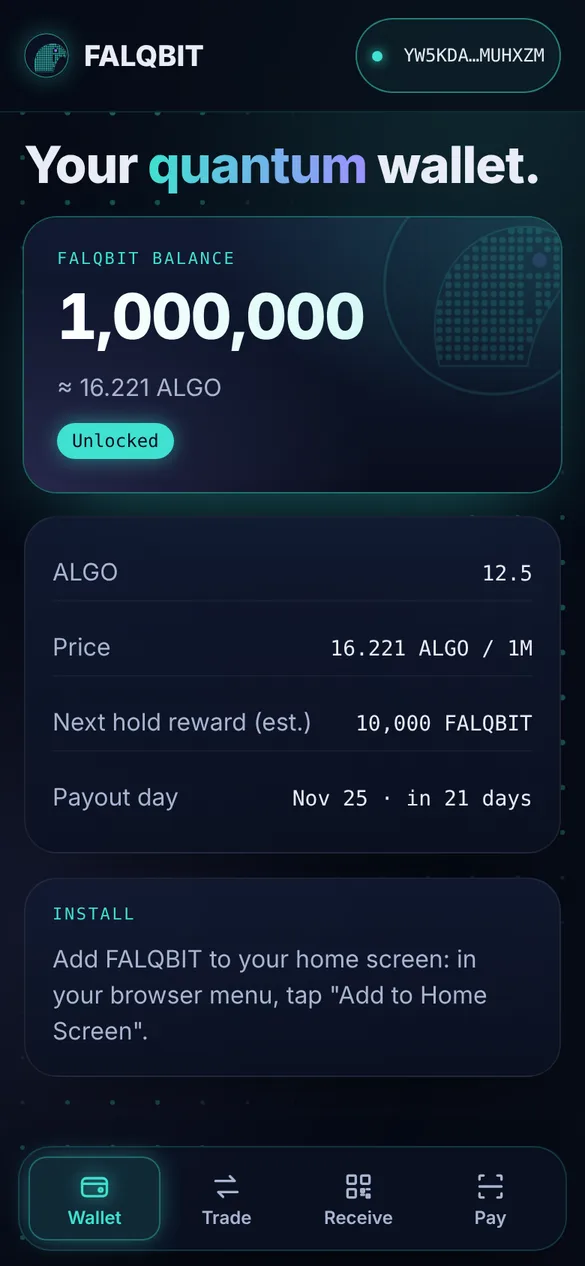
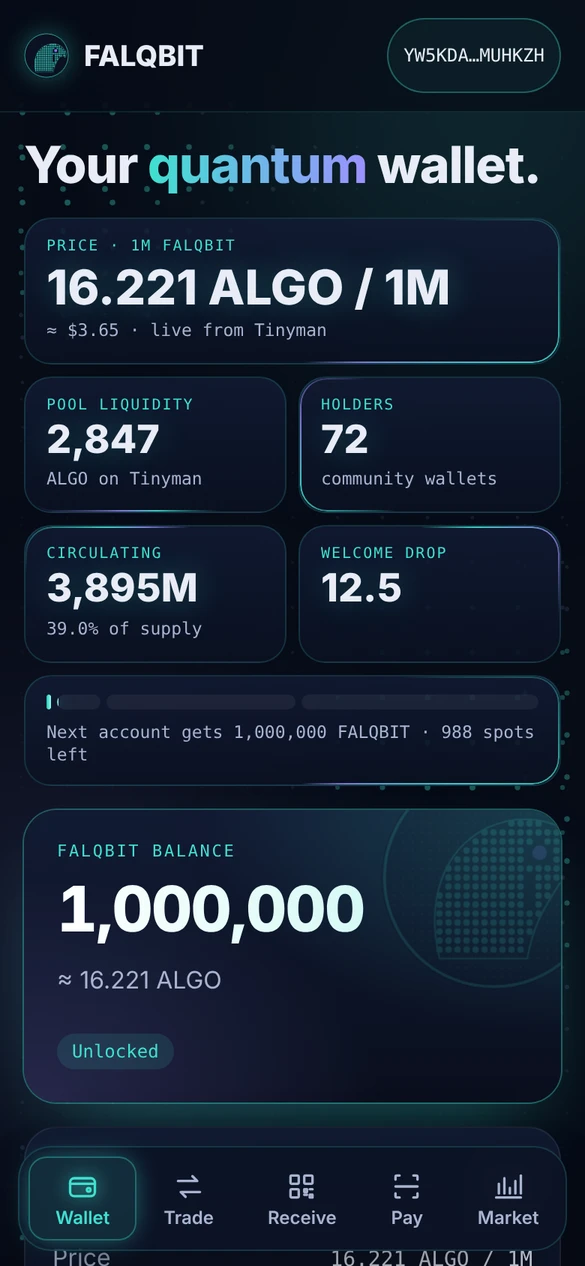
Add files via upload

diff --git a/app.html b/app.html
@@ -295,7 +295,7 @@ html.locked main, html.locked header, html.locked nav.tabs { visibility: hidden;
       <div class="dash" id="w-dash">
         <div class="dc wide"><span>Price · 1M FALQBIT</span><b id="l-price">…</b><small id="l-usd"></small></div>
         <div class="dc"><span>Pool liquidity</span><b id="l-pool">…</b><small>ALGO on Tinyman</small></div>
-        <div class="dc"><span>Holders</span><b id="l-holders">…</b><small>community wallets</small></div>
+        <div class="dc"><span>Holders</span><b id="l-holders">…</b><small>wallets holding FALQBIT</small></div>
         <div class="dc"><span>Circulating</span><b id="l-circ">…</b><small id="l-circ-s">held by the community</small></div>
         <div class="dc"><span>Welcome drop</span><b id="l-drop">…</b><small id="l-tier"></small></div>
         <div class="dc wide drop-bar"><div class="segs" id="l-segs"></div><small id="l-segs-t"></small></div>
@@ -315,8 +315,19 @@ html.locked main, html.locked header, html.locked nav.tabs { visibility: hidden;
       <div class="card" id="w-more" hidden>
         <div class="row"><span class="muted">ALGO</span><span id="w-algo">…</span></div>
         <div class="row"><span class="muted">Price</span><span id="w-price">…</span></div>
-        <div class="row"><span class="muted">Next hold reward (est.)</span><span id="w-reward">…</span></div>
-        <div class="row"><span class="muted">Payout day</span><span id="w-payday">…</span></div>
+      </div>
+      <div class="card" id="w-rewards" hidden>
+        <span class="k">💎 Hold Rewards</span>
+        <div id="w-rew-status"></div>
+        <div class="row"><span class="muted">Your balance</span><span id="w-rew-bal">…</span></div>
+        <div class="row"><span class="muted">Minimum to earn</span><span>1,000,000</span></div>
+        <div class="row"><span class="muted">Current rate</span><span id="w-rew-rate">…</span></div>
+        <div class="row"><span class="muted">Est. this month</span><span id="w-reward" style="color:var(--cyan);font-weight:700">…</span></div>
+        <div class="row"><span class="muted">Cap per wallet</span><span>500,000 / month</span></div>
+        <div class="row"><span class="muted">Monthly pool</span><span>15,000,000</span></div>
+        <div class="row"><span class="muted">Next payout</span><span id="w-payday">…</span></div>
+        <div class="bar" aria-hidden="true" style="margin-top:4px"><i id="w-rew-bar"></i></div>
+        <span class="fine" id="w-rew-fine"></span>
       </div>
       <div class="card" id="w-drop" hidden>
         <span class="k">Welcome drop</span>
@@ -519,6 +530,19 @@ views.forEach((v) => $("tab-" + v).addEventListener("click", () => show(v)));
 const start = (location.hash || "").slice(1);
 if (views.includes(start)) show(start);
 
+// ---------- persistent cache (survives page reload) ----------
+const _pCache = {};
+function pGet(key, maxAge) {
+  if (_pCache[key] && Date.now() - _pCache[key].t < maxAge) return _pCache[key].v;
+  try { const raw = localStorage.getItem("fq-c-" + key); if (raw) { const o = JSON.parse(raw); if (Date.now() - o.t < maxAge) { _pCache[key] = { t: o.t, v: o.v }; return o.v; } } } catch {}
+  return null;
+}
+function pSet(key, val) {
+  const entry = { t: Date.now(), v: val };
+  _pCache[key] = entry;
+  try { localStorage.setItem("fq-c-" + key, JSON.stringify(entry)); } catch {}
+}
+
 // ---------- chain reads ----------
 async function readPool(addr) {
   const j = await c.algodGet(`/v2/accounts/${addr}/applications/${T}`);
@@ -537,17 +561,25 @@ const usd = (n) => n >= 100 ? "$" + fmt(n, 0) : n >= 1 ? "$" + fmt(n, 2) : "$" +
 // welcome drop progress: accounts paid by the Rewards account (or early drops from the Project account)
 let STATS = null;
 async function loadStats() {
+  // Try cache first (valid 30 min)
+  const cached = pGet("stats", 30 * 60000);
+  if (cached) { STATS = cached; renderLive(); return; }
   const skip = new Set([cfg.pool, cfg.rewards, cfg.project, cfg.team, cfg.app_address].filter(Boolean));
   let all = [], next = "";
   for (let i = 0; i < 20; i++) {
     const j = await c.getJSON(`${c.n.indexer}/v2/assets/${cfg.asset_id}/balances?limit=1000&currency-greater-than=0${next ? "&next=" + encodeURIComponent(next) : ""}`);
     all = all.concat(j?.balances || []); if (!j?.["next-token"] || !(j?.balances || []).length) break; next = j["next-token"];
   }
-  const comm = all.filter((b) => !skip.has(b.address) && !b.deleted && b.amount > 0);
-  STATS = { holders: comm.length, circ: comm.reduce((t, b) => t + b.amount / DEC, 0) };
+  const live = all.filter((b) => !b.deleted && b.amount > 0);
+  const comm = live.filter((b) => !skip.has(b.address));
+  STATS = { holders: live.length, circ: comm.reduce((t, b) => t + b.amount / DEC, 0) };
+  pSet("stats", STATS);
   renderLive();
 }
 async function loadProgram() {
+  // Try cache first (valid 60 min — drops happen weekly)
+  const cached = pGet("prog", 60 * 60000);
+  if (cached) { PROG = { n: cached.n, paid: new Set(cached.list) }; renderLive(); renderDrop(); return; }
   const all = async (addr) => { let out = [], next = ""; for (let i = 0; i < 20; i++) { const j = await c.getJSON(`${c.n.indexer}/v2/accounts/${addr}/transactions?tx-type=axfer&asset-id=${cfg.asset_id}&limit=1000${next ? "&next=" + encodeURIComponent(next) : ""}`); out = out.concat(j?.transactions || []); if (!j?.["next-token"] || !(j?.transactions || []).length) break; next = j["next-token"]; } return out; };
   const note = (t) => { try { return t.note ? atob(t.note) : ""; } catch { return ""; } };
   const sizes = new Set(TIERS.map(([, v]) => String(v * DEC)));
@@ -557,6 +589,7 @@ async function loadProgram() {
   for (const t of a) { const x = t["asset-transfer-transaction"]; if (t.sender === cfg.rewards && x && x.amount > 0 && !note(t).startsWith("FALQBIT hold") && !skip.has(x.receiver)) seen.add(x.receiver); }
   for (const t of b) { const x = t["asset-transfer-transaction"]; if (t.sender === cfg.project && x && sizes.has(String(x.amount)) && !note(t).startsWith("FALQBIT hold") && !skip.has(x.receiver)) seen.add(x.receiver); }
   PROG = { n: seen.size, paid: seen };
+  pSet("prog", { n: seen.size, list: [...seen] });
   renderLive(); renderDrop();
 }
 function renderLive() {
@@ -627,7 +660,7 @@ async function refresh() {
   unlocked = !!h && !h["is-frozen"];
   algoBal = BigInt(info?.amount || 0); minBal = BigInt(info?.["min-balance"] || 0);
   const ua = (info?.assets || []).find((a) => a["asset-id"] === USDC); usdcBal = ua ? BigInt(ua.amount) : 0n; usdcOpt = !!ua;
-  $("w-empty").hidden = true; $("w-main").hidden = false; $("w-more").hidden = false;
+  $("w-empty").hidden = true; $("w-main").hidden = false; $("w-more").hidden = false; $("w-rewards").hidden = false;
   $("w-fq").textContent = fmt(Number(fqBal) / DEC);
   const p = priceAlgoPerFq();
   $("w-fq-algo").textContent = p ? `≈ ${fmt(Number(fqBal) / DEC * p, 3)} ALGO` : "";
@@ -639,14 +672,30 @@ async function refresh() {
   else if (h["is-frozen"]) { st.className = "pill warn"; st.textContent = "Locked"; }
   else { st.className = "pill ok"; st.textContent = "Unlocked"; }
   $("w-unlock").hidden = unlocked;
-  // estimate this month's hold reward from today's balance (from December the lowest balance since the 1st counts)
+  // estimate this month's hold reward from today's balance
   const now = new Date(); const ym = now.toISOString().slice(0, 7);
-  const rate = ym <= "2026-11" ? 0.01 : 0.005; const cap = 500000; // max 500,000 per wallet; 15M monthly pool shared by all
+  const rate = ym <= "2026-11" ? 0.01 : 0.005; const cap = 500000;
   const fq = Number(fqBal) / DEC;
-  $("w-reward").textContent = fq >= 1_000_000 ? `${fmt(Math.min(fq * rate, cap))} FALQBIT` : "Hold 1M+ to earn";
+  $("w-rew-bal").textContent = fmt(fq);
+  $("w-rew-rate").textContent = rate === 0.01 ? "1% (promo until Nov 2026)" : "0.5%";
+  const rewStatus = $("w-rew-status");
+  if (fq >= 1_000_000) {
+    const est = Math.min(fq * rate, cap);
+    $("w-reward").textContent = `${fmt(est)} FALQBIT`;
+    rewStatus.innerHTML = `<span class="pill ok">✓ Eligible · earning rewards</span>`;
+    const pct = Math.min(100, (est / cap) * 100);
+    $("w-rew-bar").style.width = pct + "%";
+    $("w-rew-fine").textContent = est >= cap ? "You've reached the 500K cap this month" : `${fmt(pct, 0)}% of monthly cap · hold more to earn more`;
+  } else {
+    $("w-reward").textContent = "—";
+    rewStatus.innerHTML = `<span class="pill warn">Need ${fmt(1_000_000 - fq)} more to qualify</span>`;
+    const pct = Math.min(100, (fq / 1_000_000) * 100);
+    $("w-rew-bar").style.width = pct + "%";
+    $("w-rew-fine").textContent = `${fmt(pct, 0)}% of minimum · hold 1M+ FALQBIT to earn monthly rewards`;
+  }
   const pay = new Date(Date.UTC(now.getUTCFullYear(), now.getUTCMonth() + (now.getUTCDate() > 25 ? 1 : 0), 25));
   const days = Math.ceil((pay - now) / 86400000);
-  $("w-payday").textContent = days <= 0 ? "Today" : `${pay.toLocaleDateString(undefined, { day: "numeric", month: "short" })} · in ${days} day${days === 1 ? "" : "s"}`;
+  $("w-payday").textContent = days <= 0 ? "🎉 Today!" : `${pay.toLocaleDateString(undefined, { day: "numeric", month: "short" })} · in ${days} day${days === 1 ? "" : "s"}`;
   renderReceive(); quote(); checkPay(); renderDrop(); loadHistory();
 }
 
@@ -656,7 +705,7 @@ function setAccount(a) {
   $("acct").textContent = a ? short(a) : "Connect Pera";
   $("acct").classList.toggle("on", !!a);
   $("r-copy").disabled = !a;
-  if (!a) { $("w-empty").hidden = false; $("w-main").hidden = true; $("w-more").hidden = true; $("w-drop").hidden = true; $("w-hist").hidden = true; MYDROP = null; renderReceive(); }
+  if (!a) { $("w-empty").hidden = false; $("w-main").hidden = true; $("w-more").hidden = true; $("w-rewards").hidden = true; $("w-drop").hidden = true; $("w-hist").hidden = true; MYDROP = null; renderReceive(); }
 }
 async function connect() {
   try { const a = await c.connect(); c.pera.connector?.on("disconnect", () => setAccount(null)); setAccount(a[0]); await refresh(); }
@@ -926,7 +975,7 @@ let deferred = null;
 window.addEventListener("beforeinstallprompt", (e) => { e.preventDefault(); deferred = e; $("w-install-btn").hidden = false; $("w-install-text").textContent = "Install FALQBIT on this device for quick access."; });
 $("w-install-btn").addEventListener("click", async () => { if (!deferred) return; deferred.prompt(); await deferred.userChoice; deferred = null; $("w-install-btn").hidden = true; });
 if (window.matchMedia("(display-mode: standalone)").matches) $("w-install").hidden = true;
-if ("serviceWorker" in navigator) navigator.serviceWorker.register("./sw.js").catch(() => {});
+if ("serviceWorker" in navigator) navigator.serviceWorker.register("./sw.js?v=9").catch(() => {});
 
 // ---------- market: price chart ----------
 const IDX = c.n.indexer;
@@ -935,7 +984,7 @@ let MC_RAW = null, MC_RANGE = 7, MC_LOAD = 0;
 const _mcCache = {};
 function mcFetch(url) {
   const hit = _mcCache[url];
-  if (hit && Date.now() - hit.t < 120000) return Promise.resolve(hit.data);
+  if (hit && Date.now() - hit.t < 600000) return Promise.resolve(hit.data);
   return c.getJSON(url).then(data => { data = data || { transactions: [] }; _mcCache[url] = { t: Date.now(), data }; return data; }).catch(() => ({ transactions: [] }));
 }
 async function loadPriceChart() {
@@ -1079,11 +1128,12 @@ async function loadMCActivity() {
 // ---------- start ----------
 loadReserves().then(quote).catch(() => {});
 loadProgram().catch(() => {}); loadStats().catch(() => {});
-loadPriceChart().catch(() => {}); loadMCActivity().catch(() => {});
-setInterval(() => { loadProgram().catch(() => {}); loadStats().catch(() => {}); loadPriceChart().catch(() => {}); loadMCActivity().catch(() => {}); }, 300000);
+// Price chart & activity only load when market tab is opened (see show())
+setInterval(() => { loadProgram().catch(() => {}); loadStats().catch(() => {}); }, 1800000); // 30 min
 setDir("buy");
 c.reconnect().then((a) => { if (a.length) { c.pera.connector?.on("disconnect", () => setAccount(null)); setAccount(a[0]); refresh(); } }).catch(() => {});
-setInterval(() => { refresh().catch(() => {}); }, 60000);
+setInterval(() => { loadReserves().then(quote).catch(() => {}); }, 300000); // reserves every 5 min
+setInterval(() => { if (account) refresh().catch(() => {}); }, 300000); // wallet refresh every 5 min (only if connected)
 </script>
 <script src="./fx.js" defer></script>
 <script src="./fx3.js" defer></script>

diff --git a/index.html b/index.html
@@ -121,7 +121,7 @@ p { margin: 0; }
 .step .howpaid b { color: var(--fg); font-weight: 600; }
 .step p.fine b { color: var(--fg); font-weight: 600; }
 .step p.fine { font-size: 13.5px; border-top: 1px solid var(--line); padding-top: 10px; }
-.step .eg { display: grid; grid-template-columns: 1fr auto; gap: 4px 12px; font: 500 14px/1.5 var(--mono); font-variant-numeric: tabular-nums; color: var(--fg); background: rgba(63,224,208,.08); border: 1px solid rgba(63,224,208,.25); border-radius: 10px; padding: 10px 12px; }
+.step .eg { display: grid; grid-template-columns: 1fr auto auto; gap: 4px 12px; font: 500 14px/1.5 var(--mono); font-variant-numeric: tabular-nums; color: var(--fg); background: rgba(63,224,208,.08); border: 1px solid rgba(63,224,208,.25); border-radius: 10px; padding: 10px 12px; }
 .step .eg span:nth-child(even) { text-align: right; color: var(--cyan); }
 .step .eg .h { font-size: 11px; letter-spacing: .08em; text-transform: uppercase; color: var(--muted) !important; }
 .lock { display: inline-flex; align-items: center; gap: 8px; font: 500 12px/1 var(--mono); padding: 6px 10px; border-radius: 999px; white-space: nowrap; align-self: flex-start; margin-top: auto; }
@@ -1143,7 +1143,6 @@ body { background-image: none; }
       <a href="#how">How it works</a>
       <a href="#rewards">Rewards</a>
       <a href="#price">Price</a>
-      <a href="#supply">Supply</a>
       <a href="#holders">Holders</a>
       <a href="#proof">Proof</a>
       <a href="./trade.html">Trade</a>
@@ -1611,9 +1610,9 @@ body { background-image: none; }
       </article>
       <article class="step">
         <span class="n">HOLD-TO-EARN</span>
-        <h3>0.5% a month for holding</h3>
-        <p>Hold 1,000,000 FALQBIT or more and get 0.5% of your balance every month, sent straight to your wallet. Launch month (November 2026) pays 1% of your balance on the 25th.</p>
-        <div class="eg"><span class="h">You hold</span><span class="h">You get / month</span><span>1,000,000</span><span>5,000</span><span>10,000,000</span><span>50,000</span><span>100,000,000+</span><span>500,000 max</span></div>
+        <h3>Up to 1% a month for holding</h3>
+        <p>Hold 1,000,000 FALQBIT or more and earn monthly rewards sent straight to your wallet. <b>Until November 2026: 1% promo rate.</b> From December 2026: 0.5% long-term rate.</p>
+        <div class="eg"><span class="h">You hold</span><span class="h">Now (1%)</span><span class="h">Dec 2026+ (0.5%)</span><span>1,000,000</span><span>10,000</span><span>5,000</span><span>10,000,000</span><span>100,000</span><span>50,000</span><span>100,000,000+</span><span>500,000 max</span><span>500,000 max</span></div>
         <p>No staking, nothing to claim. Your tokens never leave your wallet and you can sell anytime.</p>
         <span class="lock on">Min. 1,000,000 FALQBIT</span>
       </article>
@@ -1673,7 +1672,7 @@ body { background-image: none; }
           </div>
         </div>
       </div>
-      <div class="phone"><img src="./app-shot.webp" alt="The FALQBIT app wallet screen showing a balance, the price and the next hold reward" width="585" height="1266" loading="lazy"></div>
+      <div class="phone"><img src="./app-shot.webp" alt="The FALQBIT app wallet screen showing a balance, the price, next hold reward and the Market tab" width="585" height="1266" loading="lazy"></div>
     </div>
   </section>
 
@@ -1715,26 +1714,6 @@ body { background-image: none; }
     </div>
   </section>
 
-  <section class="sec reveal" id="supply" aria-labelledby="h-supply">
-    <div class="sec-head">
-      <p class="eyebrow">Supply</p>
-      <h2 id="h-supply">Ten billion FALQBIT, split in the open.</h2>
-    </div>
-    <div class="bar" role="img" aria-label="Allocation: 63% liquidity pool, 25% hold-to-earn, 2% welcome drop, 5% project reserve, 5% team">
-      <span style="width:63%; background: var(--cyan)"></span>
-      <span style="width:25%; background: var(--teal)"></span>
-      <span style="width:2%; background: var(--violet)"></span>
-      <span style="width:5%; background: var(--slate)"></span>
-      <span style="width:5%; background: var(--pale)"></span>
-    </div>
-    <ul class="legend">
-      <li><span class="sw" style="background: var(--cyan)"></span><span class="what">Liquidity pool</span><span class="pct">63%</span><span class="amt">6,300,000,000 · 5.5B paired with ALGO at launch + 800M added later</span></li>
-      <li><span class="sw" style="background: var(--teal)"></span><span class="what">Hold-to-earn</span><span class="pct">25%</span><span class="amt">2,500,000,000 · 0.5% a month to holders, 15M monthly pool, funded for nearly 14 years</span></li>
-      <li><span class="sw" style="background: var(--violet)"></span><span class="what">Welcome drop</span><span class="pct">2%</span><span class="amt">200,000,000 · 1M for each of the first 200 accounts (accounts 201–1,000 are funded from the project reserve)</span></li>
-      <li><span class="sw" style="background: var(--slate)"></span><span class="what">Project reserve</span><span class="pct">5%</span><span class="amt">500,000,000 · welcome rounds 2–4 (270M), liquidity, contests and partners</span></li>
-      <li><span class="sw" style="background: var(--pale)"></span><span class="what">Team</span><span class="pct">5%</span><span class="amt">500,000,000 · held in a quantum account</span></li>
-    </ul>
-  </section>
 
   <section class="sec reveal" id="holders" aria-labelledby="h-holders">
     <div class="sec-head">
@@ -1957,6 +1936,18 @@ document.documentElement.classList.add("js");
   var TINYMAN = 1002541853, GATE = 3760919863, ASSET = 3760920399, SUPPLY = 10000000000;
   function $(id) { return document.getElementById(id); }
   function fmt(n, d) { return n.toLocaleString("en-US", { minimumFractionDigits: d, maximumFractionDigits: d }); }
+  // persistent cache to avoid hammering the API on every page load
+  var _pc = {};
+  function pGet(key, maxAge) {
+    if (_pc[key] && Date.now() - _pc[key].t < maxAge) return _pc[key].v;
+    try { var raw = localStorage.getItem("fq-i-" + key); if (raw) { var o = JSON.parse(raw); if (Date.now() - o.t < maxAge) { _pc[key] = { t: o.t, v: o.v }; return o.v; } } } catch (e) {}
+    return null;
+  }
+  function pSet(key, val) {
+    var entry = { t: Date.now(), v: val };
+    _pc[key] = entry;
+    try { localStorage.setItem("fq-i-" + key, JSON.stringify(entry)); } catch (e) {}
+  }
   var REDUCED = window.matchMedia && window.matchMedia("(prefers-reduced-motion: reduce)").matches;
   function countUp(id, to, show) {
     var el = $(id); if (!el) return;
@@ -2517,9 +2508,9 @@ document.documentElement.classList.add("js");
   // reasonable refresh cadence that stays well under algonode public rate limits (around 60 req/min per IP)
   // the "fresh" dot on the distribution still animates when real swaps change the data, even at this rhythm
   setInterval(function () { load(); }, 45000);          // price + main stats every 45s
-  setInterval(function () { loadHolders(); loadLP(); }, 60000); // holders + LP every 60s
-  setInterval(function () { loadPrice(); }, 120000);    // price chart every 2 min
-  setInterval(function () { loadActivity(); loadWelcome(); }, 180000); // activity + welcome every 3 min
+  setInterval(function () { loadHolders(); loadLP(); }, 600000); // holders + LP every 10 min
+  setInterval(function () { loadPrice(); }, 600000);    // price chart every 10 min
+  setInterval(function () { loadActivity(); loadWelcome(); }, 900000); // activity + welcome every 15 min
 })();
 </script>
 <script>

diff --git a/whitepaper.html b/whitepaper.html
@@ -88,7 +88,6 @@ footer { margin-top: 64px; padding-top: 20px; border-top: 1px solid var(--line);
     <li><a href="#solution">The solution</a></li>
     <li><a href="#how">How it works</a></li>
     <li><a href="#token">Token facts</a></li>
-    <li><a href="#supply">Supply and allocation</a></li>
     <li><a href="#rewards">Rewards</a></li>
     <li><a href="#trade">Joining and trading</a></li>
     <li><a href="#security">Security and limits</a></li>
@@ -140,20 +139,8 @@ footer { margin-top: 64px; padding-top: 20px; border-top: 1px solid var(--line);
   <tr><td>Compiled gate (SHA-256)</td><td class="mono">f14801163a468bc7e990531cd866dd21fe69a6f5d0b7bf0bd71cd8109e4f95a9</td></tr>
 </table></div>
 
-<h2 id="supply"><span class="n">05</span>Supply and allocation</h2>
-<p>The whole supply was minted once, at launch. Every allocation sits in a public account, so anyone can check the balances live on the <a href="https://falqbit.com/#supply">supply section</a> of the site or on any Algorand explorer.</p>
-<div class="bar" role="img" aria-label="63% liquidity pool, 25% hold-to-earn, 2% welcome drop, 5% project reserve, 5% team">
-  <span style="width:63%;background:#3FE0D0"></span><span style="width:25%;background:#22A397"></span><span style="width:2%;background:#9B8CFF"></span><span style="width:5%;background:#6B78A8"></span><span style="width:5%;background:#CDD3EA"></span>
-</div>
-<div class="tbl"><table>
-  <tr><th>Allocation</th><th>Share</th><th>Amount</th><th>Purpose</th></tr>
-  <tr><td><span class="sw" style="background:#3FE0D0"></span>Liquidity pool</td><td class="num">63%</td><td class="num">6.3B</td><td>Paired with ALGO in the Tinyman pool: 5.5B at launch, more added since. Tokens bought by users leave the pool. Live amounts are on the site's supply dashboard.</td></tr>
-  <tr><td><span class="sw" style="background:#22A397"></span>Hold-to-earn</td><td class="num">25%</td><td class="num">2.5B</td><td>Monthly rewards for holders</td></tr>
-  <tr><td><span class="sw" style="background:#9B8CFF"></span>Welcome drop</td><td class="num">2%</td><td class="num">200M</td><td>1M for each of the first 200 accounts. Accounts 201–1,000 are paid from the project reserve (see Rewards).</td></tr>
-  <tr><td><span class="sw" style="background:#6B78A8"></span>Project reserve</td><td class="num">5%</td><td class="num">500M</td><td>Welcome rounds 2–4 (270M), liquidity, contests and partners</td></tr>
-  <tr><td><span class="sw" style="background:#CDD3EA"></span>Team</td><td class="num">5%</td><td class="num">500M</td><td>Held in a quantum account</td></tr>
-</table></div>
-<h3>Public accounts</h3>
+<h2 id="supply"><span class="n">05</span>Supply and accounts</h2>
+<p>The total supply is <strong>10,000,000,000 FALQBIT</strong>, minted once at launch. There is no manager, no minting and no clawback. Every project account is a public Falcon-1024 Quantum Account — balances can be checked live on the <a href="https://falqbit.com/#holders">supply dashboard</a> or on any Algorand explorer.</p>
 <div class="tbl"><table>
   <tr><th>Account</th><th>Address</th></tr>
   <tr><td>Project (creator, reserve, liquidity)</td><td class="mono">OCAF6EHCGLZ3SJDE54SL2TBKNDLIQAUQDM6CAFQAFZ7LNLERA4SBY73YIU</td></tr>
@@ -161,7 +148,7 @@ footer { margin-top: 64px; padding-top: 20px; border-top: 1px solid var(--line);
   <tr><td>Team</td><td class="mono">XMKDQFY55TLREPRIUG3WLWPUPKFW33WPV7GZF6U22EWOXYWHLKTPGBDT7Q</td></tr>
   <tr><td>Tinyman v2 pool</td><td class="mono">CEQH5WNK3VFUVGZ6WET7GO2JLZVYY7BDPCN74LGWEUWC5WCMPYU7M7VCIA</td></tr>
 </table></div>
-<p class="muted">All project accounts are Falcon-1024 Quantum Accounts. There was no presale, no private sale and no token sale other than the public Tinyman pool.</p>
+<p class="muted">There was no presale, no private sale and no token sale other than the public Tinyman pool.</p>
 
 <h2 id="rewards"><span class="n">06</span>Rewards</h2>
 <h3>Welcome drop</h3>

diff --git a/sw.js b/sw.js
@@ -1,5 +1,5 @@
 // FALQBIT app service worker: network first, offline fallback to the cached shell.
-const CACHE = "falqbit-app-v7";
+const CACHE = "falqbit-app-v9";
 const SHELL = ["./app.html", "./falqbit.js", "./falqbit-config.json", "./icon.png", "./app-icon-192.png", "./fx.js", "./fx3.js", "./fxu.css"];
 self.addEventListener("install", (e) => { e.waitUntil(caches.open(CACHE).then((c) => c.addAll(SHELL)).then(() => self.skipWaiting())); });
 self.addEventListener("activate", (e) => { e.waitUntil(caches.keys().then((ks) => Promise.all(ks.filter((k) => k !== CACHE).map((k) => caches.delete(k)))).then(() => self.clients.claim())); });

diff --git a/rewards.html b/rewards.html
@@ -206,6 +206,13 @@ async function founderSet(addrs) {
   return out;
 }
 
+// ---- persistent cache (avoid re-fetching on every page load) ----------
+function pGet(key, maxAge) {
+  try { const raw = localStorage.getItem("fq-r-" + key); if (raw) { const o = JSON.parse(raw); if (Date.now() - o.t < maxAge) return o.v; } } catch {}
+  return null;
+}
+function pSet(key, val) { try { localStorage.setItem("fq-r-" + key, JSON.stringify({ t: Date.now(), v: val })); } catch {} }
+
 // ---- chain reads -------------------------------------------------------
 async function indexerAll(path, key) {
   const out = []; let next = "";
